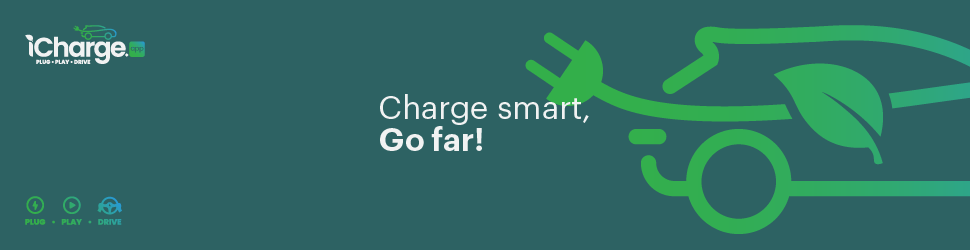
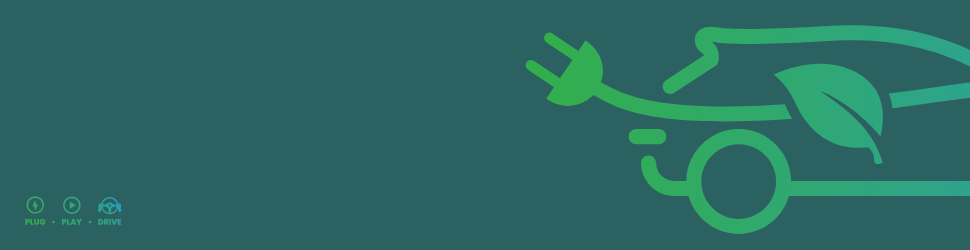
update hero

diff --git a/packages/themes/gatsby-theme-flexiblocks/src/homepage/app/_styles.js b/packages/themes/gatsby-theme-flexiblocks/src/homepage/app/_styles.js
@@ -4,7 +4,7 @@
  * [background colors] to blocks.
  *
  */
-import heroBg from '../marketing/assets/hero.webp'
+import heroBg from '../marketing/assets/hero.png'
 export default {
   heroContainer: {
     '::before': {
@@ -16,8 +16,8 @@ export default {
       zIndex: -1,
       background: t =>
         `linear-gradient(
-          rgba(0, 0, 0, 0.45),
-          rgba(0, 0, 0, 0.75)
+          rgba(0, 0, 0, 0),
+          rgba(0, 0, 0, 0.8)
         ), url(${heroBg}) no-repeat center 0`,
       backgroundSize: `100%, cover`
     }

diff --git a/packages/themes/gatsby-theme-flexiblocks/src/pages/index.jsx b/packages/themes/gatsby-theme-flexiblocks/src/pages/index.jsx
@@ -14,8 +14,6 @@ import Features from '@solid-ui-blocks/Features/Block06'
 import HowItWorks from '@solid-ui-blocks/FeaturesWithPhoto/Block07'
 import ServicesDetails from '@solid-ui-blocks/Faq/Block02'
 import Faq from '@solid-ui-blocks/Faq/Block02'
-import Pricing from '@solid-ui-blocks/Pricing/Block02'
-import Blog from '@solid-ui-blocks/Blog/Block01'
 import ContentTwo from '@solid-ui-blocks/Features/Block06'
 import Footer from '@solid-ui-blocks/Footer/Block01'
 import { normalizeBlockContentNodes } from '@blocks-helpers'

diff --git a/site/gatsby-config.js b/site/gatsby-config.js
@@ -1,6 +1,18 @@
 module.exports = {
   plugins: [
     {
+      resolve: 'gatsby-plugin-manifest',
+      options: {
+        name: 'Icharge',
+        short_name: 'iCharge',
+        start_url: '/',
+        background_color: '#ffffff',
+        theme_color: '#5a67d8',
+        display: 'minimal-ui',
+        icon: 'content/assets/favicon.png'
+      }
+    },
+    {
       resolve: '@elegantstack/gatsby-theme-flexiblocks',
       options: {
         createDemoPages: false,
